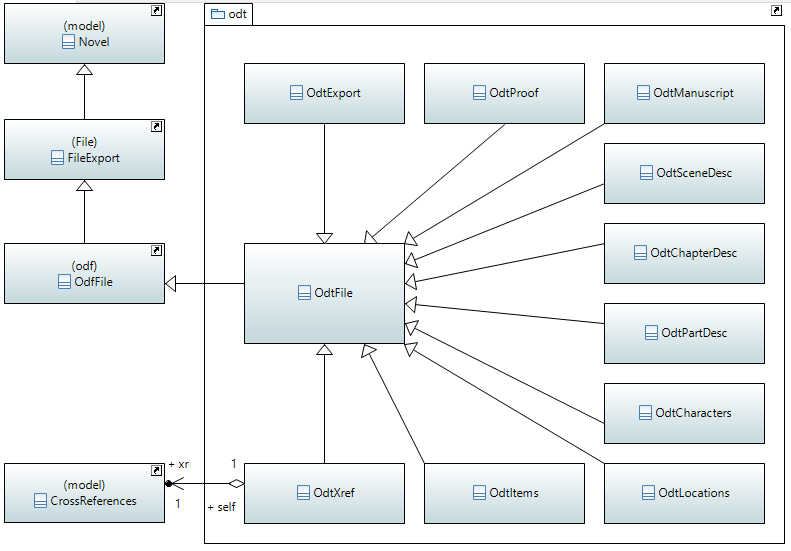
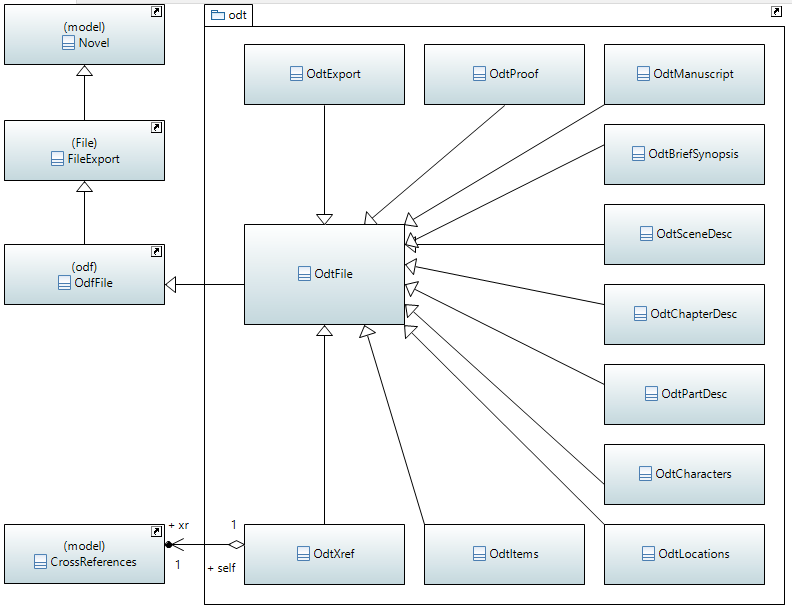
Add the odt_brief_synopsis module to the documentation.

diff --git a/src/pywriter/odt/__init__.py b/src/pywriter/odt/__init__.py
@@ -5,6 +5,7 @@ Modules:
 odt_file -- Provide a generic class for ODT file export.
 odt_export -- Provide a class for ODT chapters and scenes export.
 odt_proof -- Provide a class for ODT visibly tagged chapters and scenes export.
+odt_brief_synopsis -- Provide a class for ODT brief synopsis export.
 odt_manuscript -- Provide a class for ODT invisibly tagged chapters and scenes export.
 odt_partdesc -- Provide a class for ODT invisibly tagged part descriptions export.
 odt_chapterdesc -- Provide a class for ODT invisibly tagged chapter descriptions export.

diff --git a/docs/devel/lib/odt.md b/docs/devel/lib/odt.md
@@ -12,6 +12,8 @@
 
 - **odt_proof** -- Provide a class for ODT visibly tagged chapters and scenes export.
 
+- **odt_brief_synopsis** -- Provide a class for ODT brief synopsis export.
+
 - **odt_manuscript** -- Provide a class for ODT invisibly tagged chapters and scenes export.
 
 - **odt_partdesc** -- Provide a class for ODT invisibly tagged part descriptions export.
